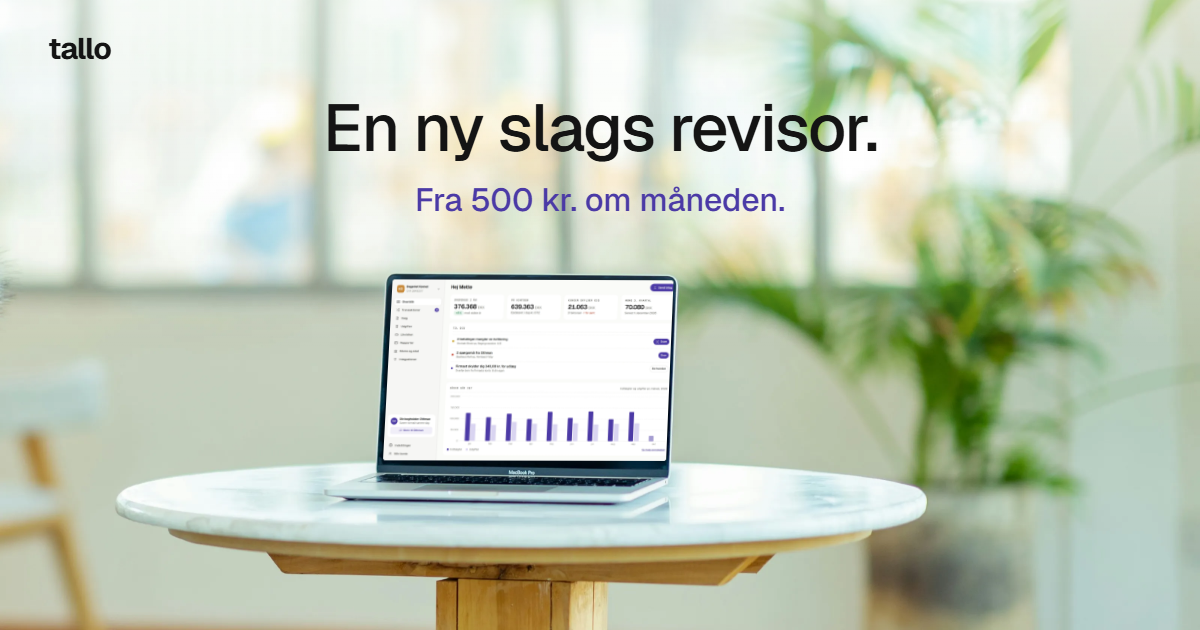
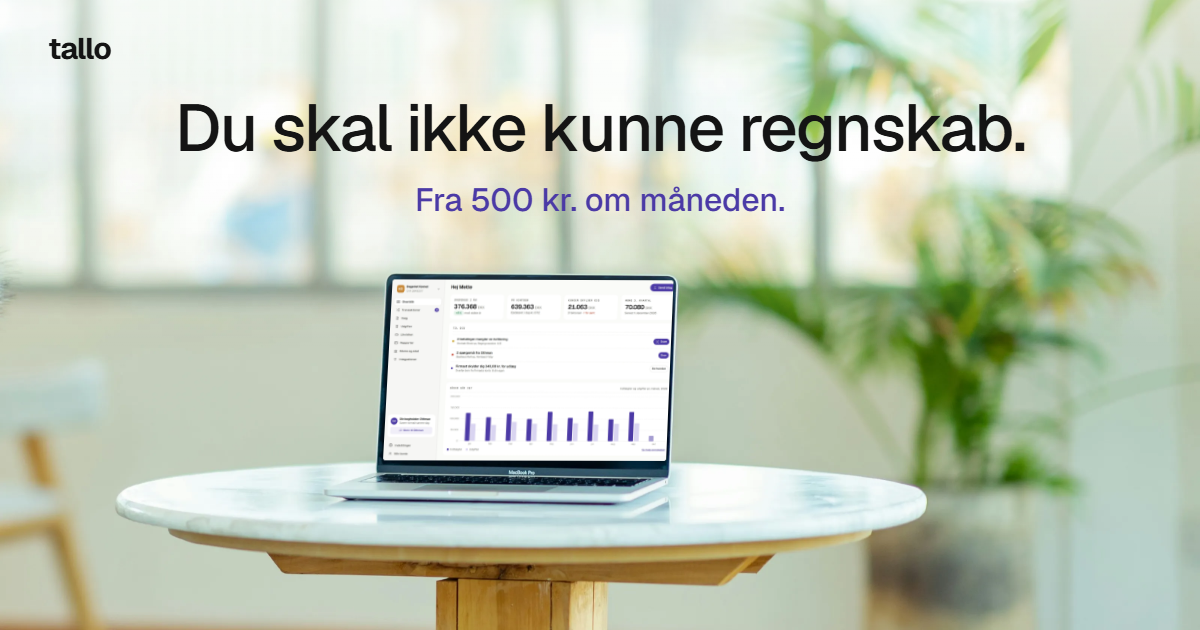
Ny overskrift: Du skal ikke kunne regnskab.

Changed region(s): [[0.1233, 0.1508, 0.8633, 0.2714]]

diff --git a/index.html b/index.html
@@ -7,11 +7,11 @@
 <meta http-equiv="Content-Security-Policy" content="default-src 'self'; script-src 'self' 'unsafe-inline' https://app.cal.com; style-src 'self' 'unsafe-inline'; img-src 'self' data: https://app.cal.com; font-src 'self'; connect-src 'self' https://nznqjlrknpbnfzizxnkr.supabase.co https://app.cal.com; frame-src https://app.cal.com https://cal.com; object-src 'none'; base-uri 'self'; form-action https://nznqjlrknpbnfzizxnkr.supabase.co mailto:">
 <meta name="referrer" content="strict-origin-when-cross-origin">
 <meta name="robots" content="noindex, nofollow">
-<title>Tallo: en ny slags revisor</title>
+<title>Tallo: du skal ikke kunne regnskab</title>
 <meta name="description" content="Dine regninger og fakturaer kommer ind af sig selv. Vi bogfører dem for dig, eller du gør det selv med AI's hjælp. Fra 500 kr. om måneden.">
 <meta property="og:type" content="website">
 <meta property="og:url" content="https://tallo.dk/">
-<meta property="og:title" content="Tallo: en ny slags revisor">
+<meta property="og:title" content="Tallo: du skal ikke kunne regnskab">
 <meta property="og:description" content="Dine regninger og fakturaer kommer ind af sig selv. Vi bogfører dem for dig, eller du gør det selv med AI's hjælp. Fra 500 kr. om måneden.">
 <meta property="og:image" content="https://tallo.dk/og.png">
 <meta property="og:image:width" content="1200">
@@ -260,7 +260,7 @@
         <div class="sloer" id="sloer"></div>
 
         <div class="top-tekst" id="tekst">
-          <h1>En ny slags revisor.</h1>
+          <h1>Du skal ikke kunne regnskab.</h1>
           <p class="ingress">Dine regninger og fakturaer kommer ind af sig selv. Vi bogfører dem for dig, eller du gør det selv med AI's hjælp. Fra 500 kr. om måneden.</p>
           <div class="knapper">
             <a class="pille farve" href="#kom">Skriv dig op på 2 minutter</a>

diff --git a/vaerktoej/undersider.py b/vaerktoej/undersider.py
@@ -783,7 +783,7 @@ def erstat(s, navn, nyt):
 def forside():
     fil = ROD / "index.html"
     s = fil.read_text(encoding="utf-8")
-    s = erstat(s, "hoved", hoved("Tallo: en ny slags revisor",
+    s = erstat(s, "hoved", hoved("Tallo: du skal ikke kunne regnskab",
                                  "Dine regninger og fakturaer kommer ind af sig selv. Vi bogfører dem for dig, eller du gør det selv med AI's hjælp. Fra 500 kr. om måneden.", "/"))
     s = erstat(s, "menu", menu("/"))
     s = erstat(s, "pakker", "  " + pakkeblok())
